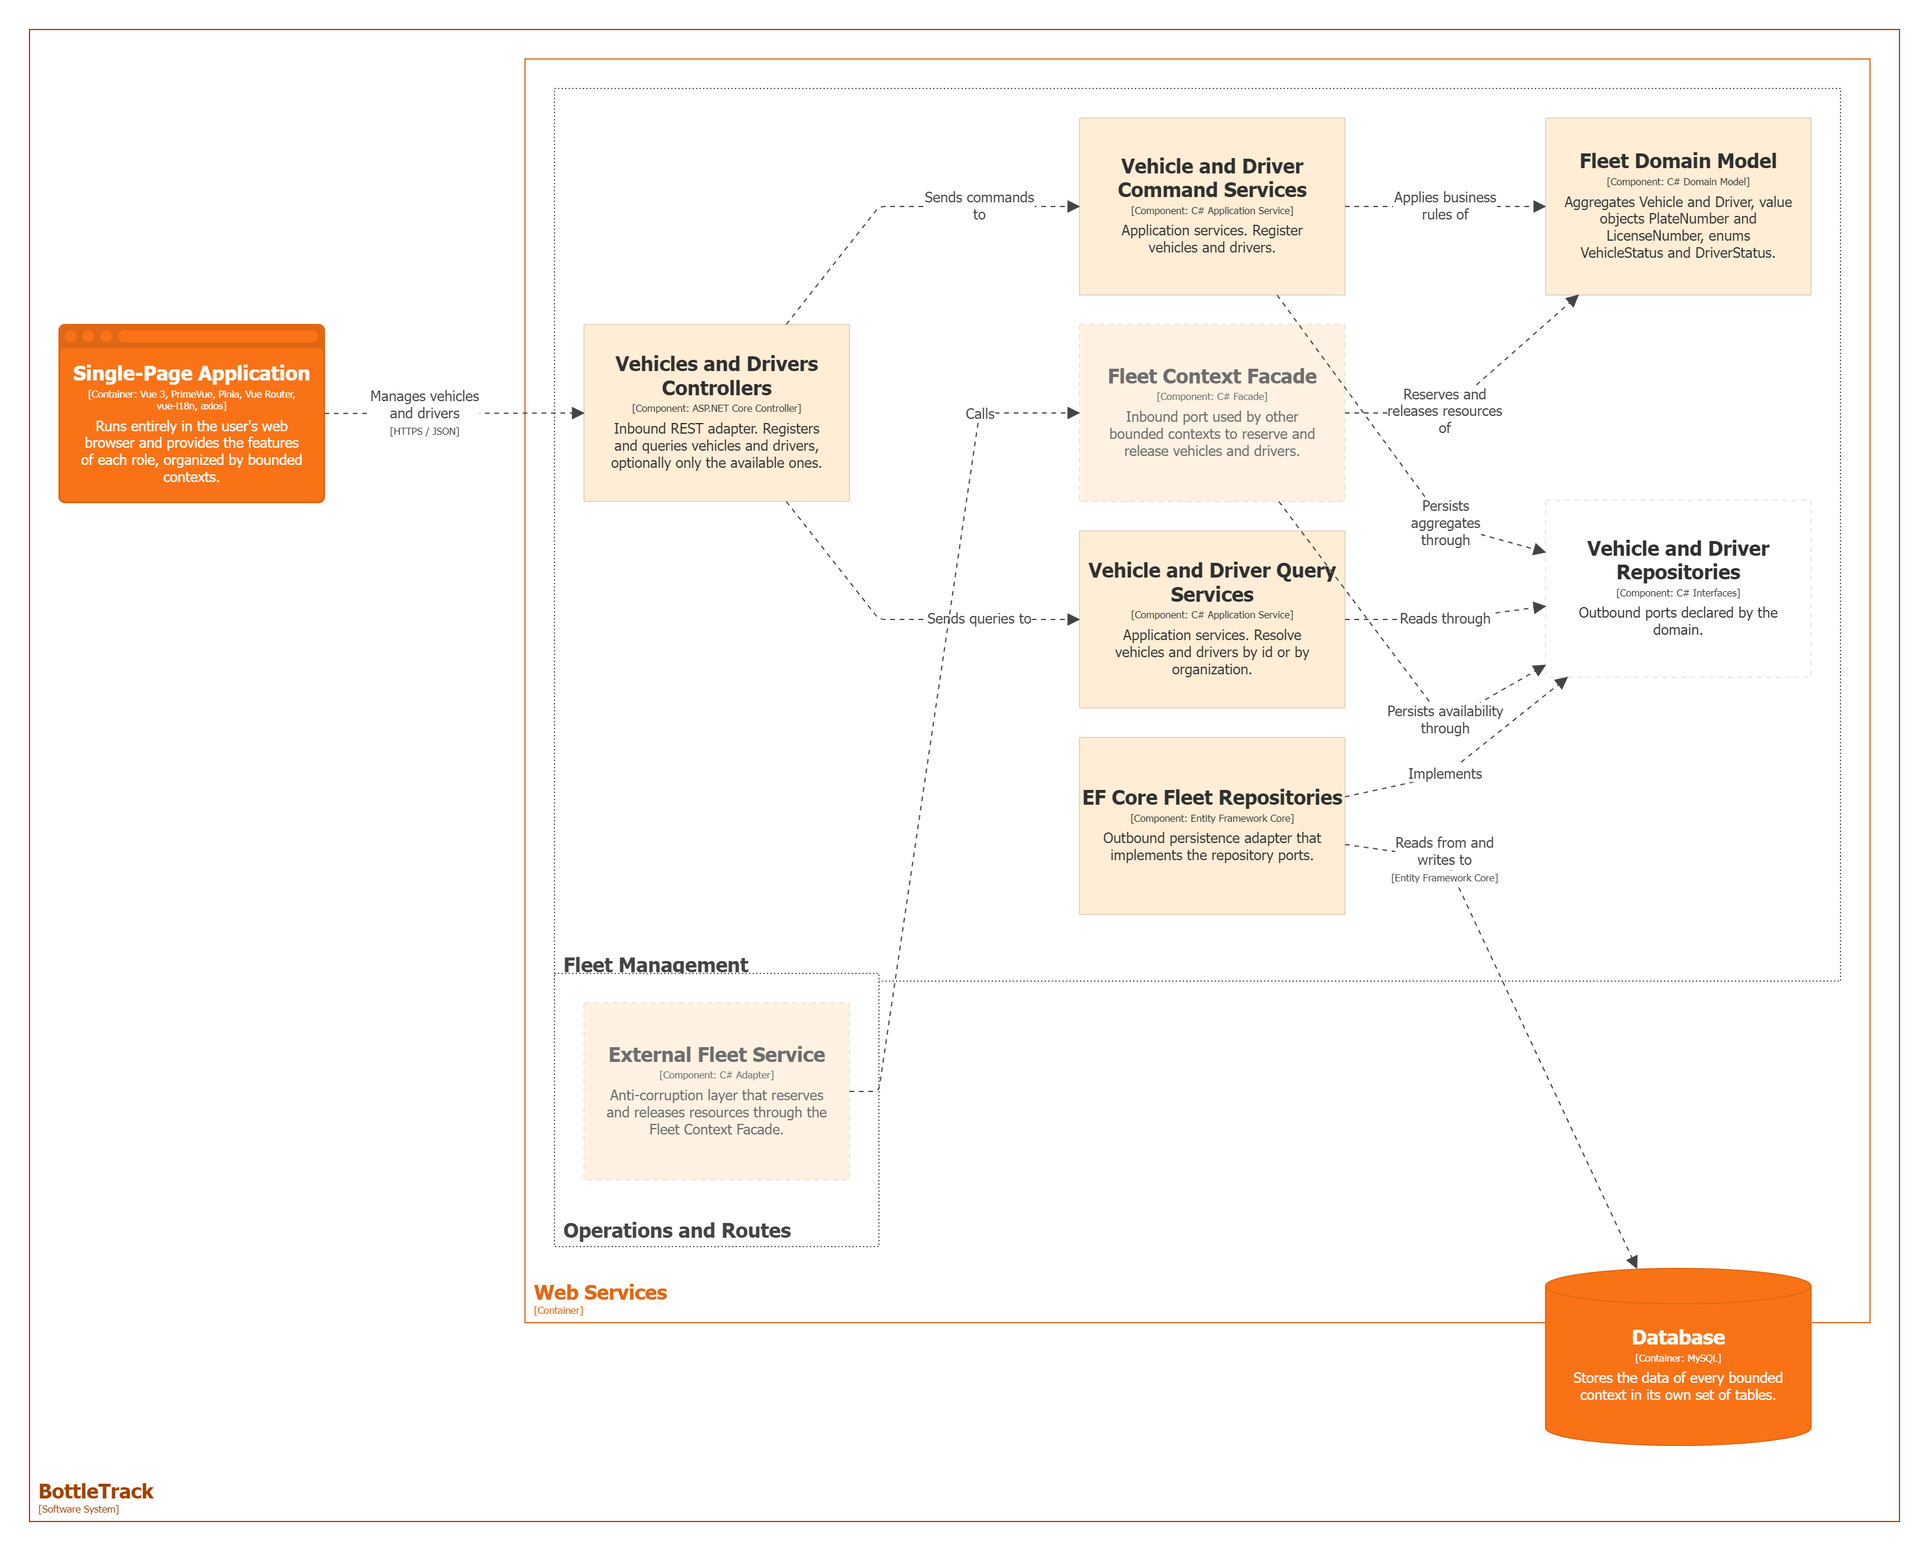
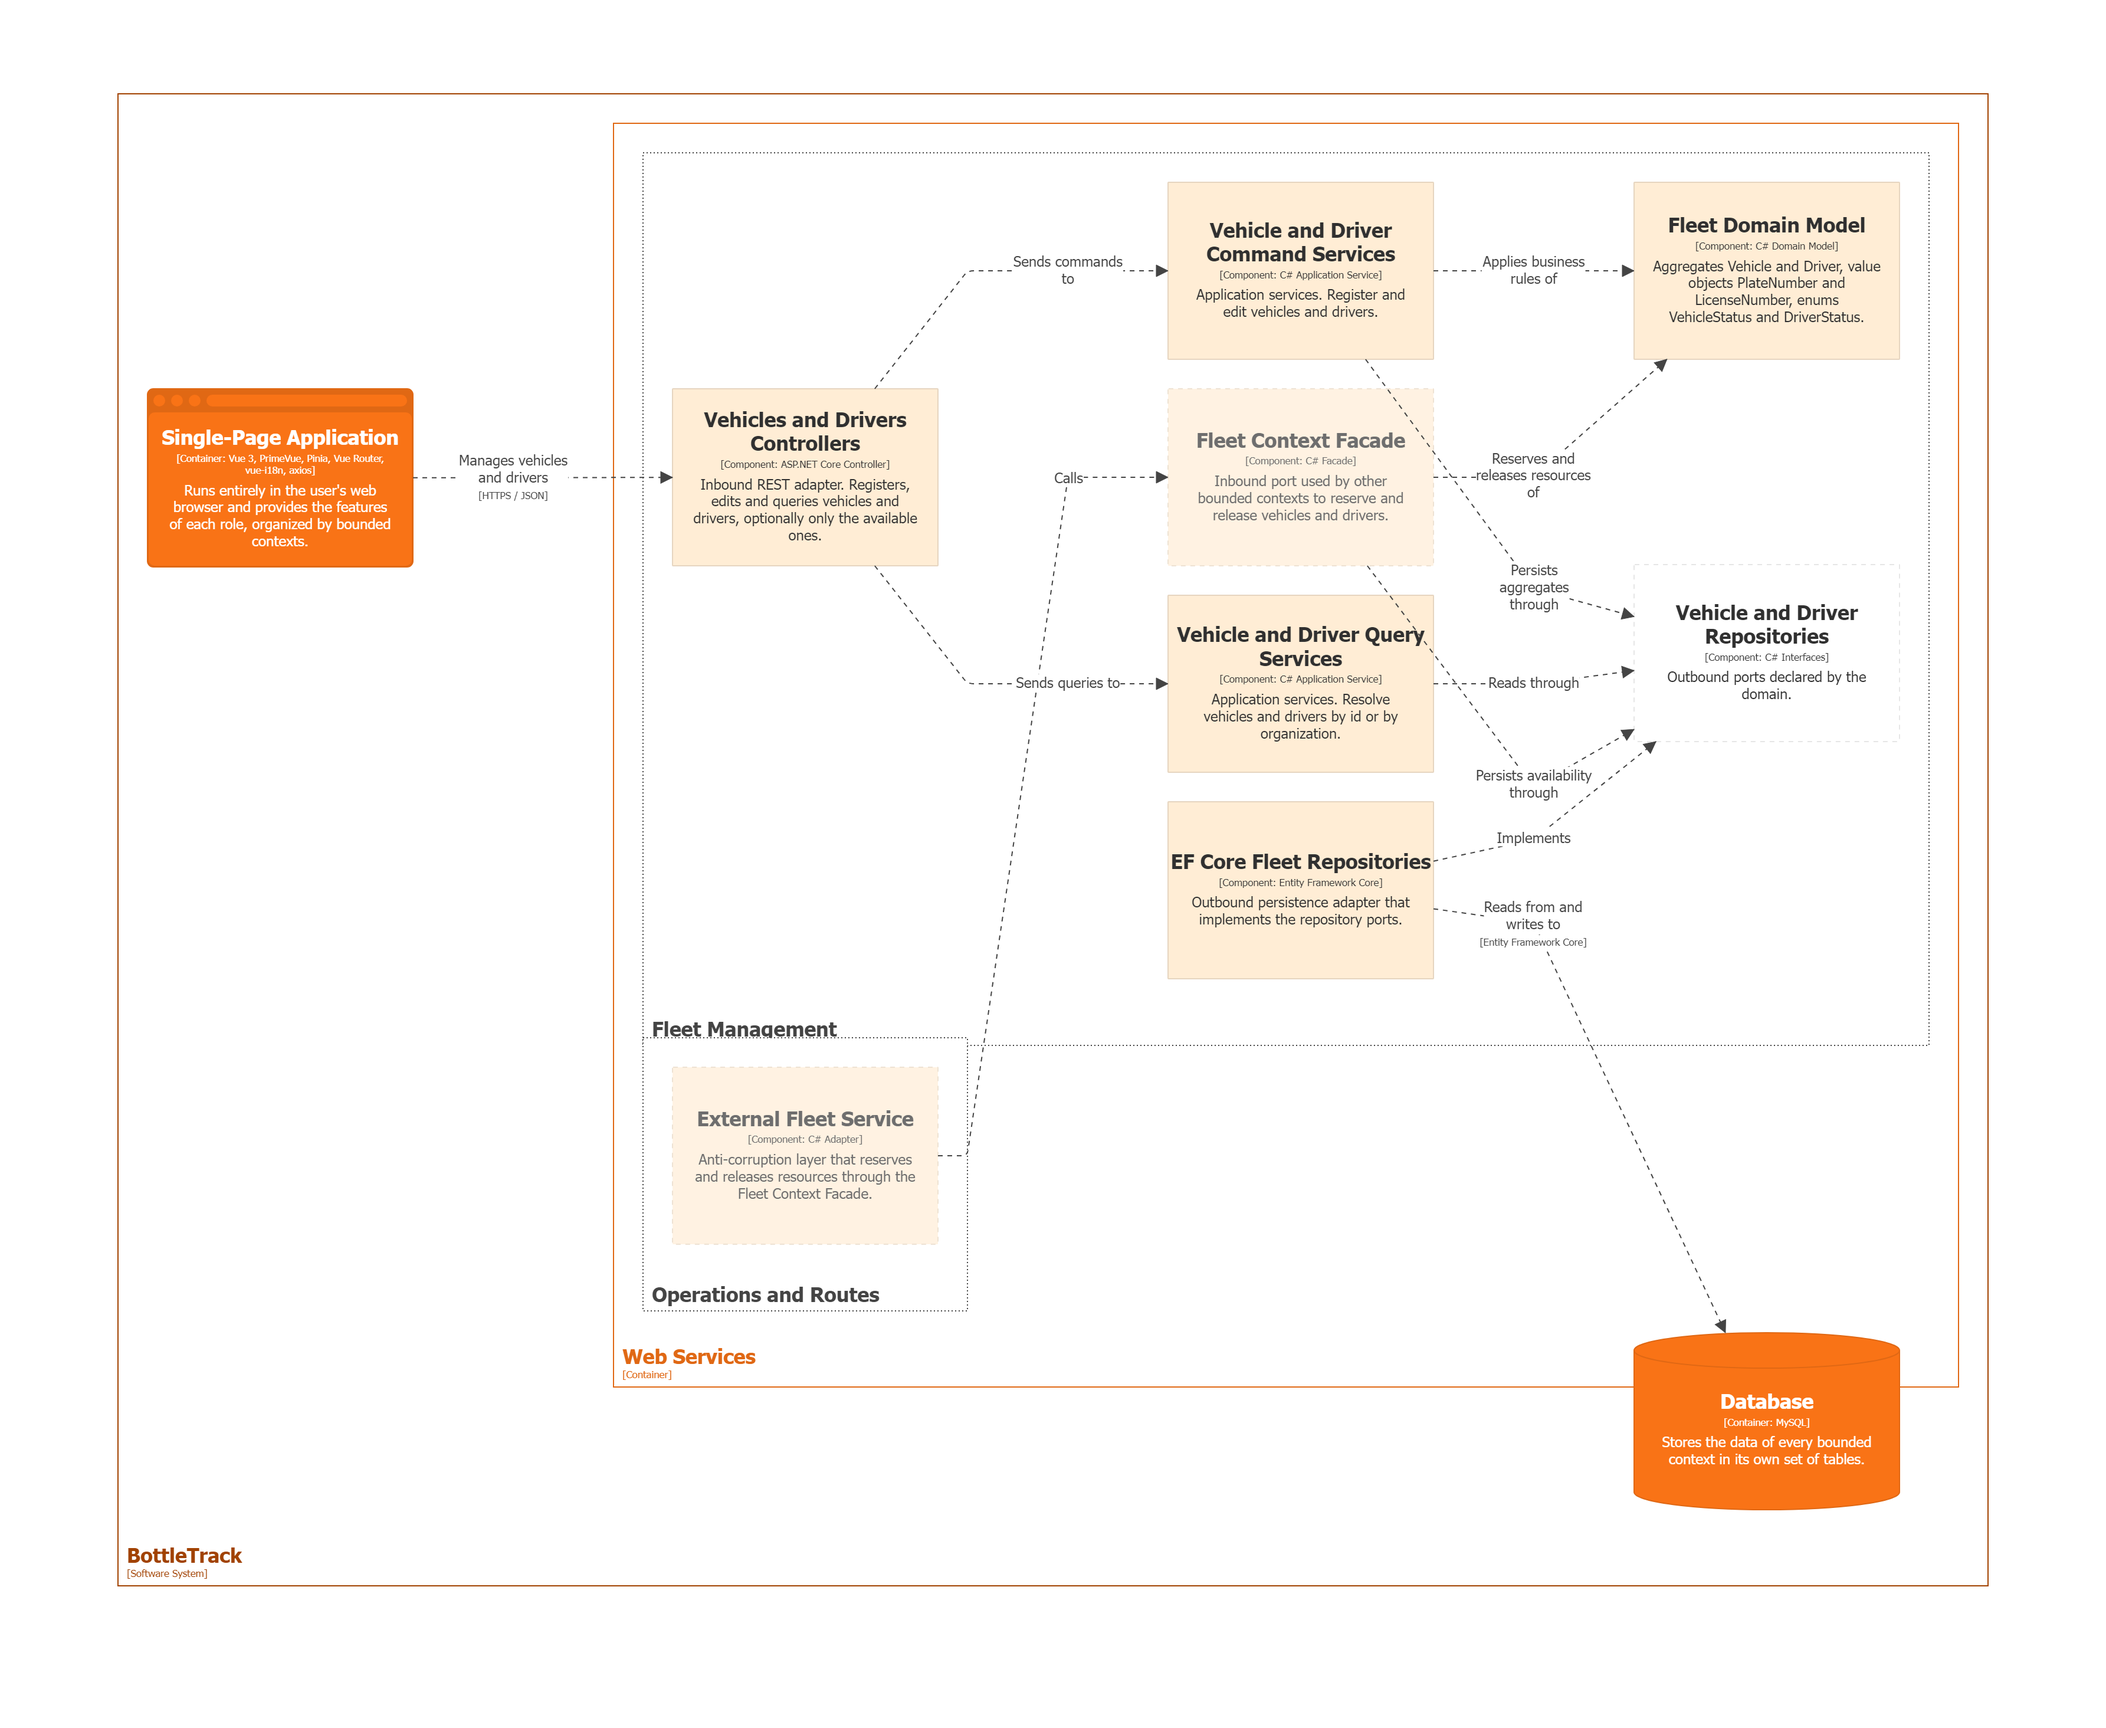
fix(report): align fleet management backend and component diagrams

diff --git a/report/40-chapter-4-product-design.md b/report/40-chapter-4-product-design.md
@@ -752,7 +752,7 @@ Se elaboró un diagrama de componentes por bounded context. Los componentes dibu
 
 <img src="assets/DD-SoftwareArchitecture/componentIAM_D.png" alt="Diagrama de componentes de Identity and Access Management" width="800">
 
-**Fleet Management.** Gestiona los vehículos y los conductores y su disponibilidad. Implementado: registro y consulta de vehículos y de conductores, con filtro por disponibilidad. La facade con la que Operations and Routes reservará y liberará recursos está planificada.
+**Fleet Management.** Gestiona los vehículos y los conductores y su disponibilidad. Implementado: registro, consulta y edición de vehículos y de conductores, con filtro por disponibilidad. La facade con la que Operations and Routes reservará y liberará recursos está planificada.
 
 <img src="assets/DD-SoftwareArchitecture/componentFleetM_D.png" alt="Diagrama de componentes de Fleet Management" width="800">
 
@@ -820,7 +820,7 @@ Administra los vehículos y los conductores que se asignan a las operaciones de 
 
 <img src="assets/Software-Object-Oriented-Design/frontend-class-fleet-management.png" alt="Diagrama de clases de Fleet Management en el frontend" width="800">
 
-*Backend.* `Vehicle` y `Driver` son raíces de agregado que controlan su propia disponibilidad: `Reserve` los marca como asignados, `Release` los libera y, en el vehículo, `SendToMaintenance` lo retira de circulación. `PlateNumber` y `LicenseNumber` son value objects que los identifican, y cada uno tiene un estado (`VehicleStatus` o `DriverStatus`). `IVehicleRepository` e `IDriverRepository` permiten buscar por placa, documento o licencia, para evitar duplicados, y listar los recursos disponibles de una organización.
+*Backend.* `Vehicle` y `Driver` son raíces de agregado que controlan su propia disponibilidad: `Reserve` los marca como asignados, `Release` los libera y, en el vehículo, `SendToMaintenance` lo retira de circulación. `UpdateDetails` corrige sus datos editables sin tocar la placa, el documento ni la licencia. `PlateNumber` y `LicenseNumber` son value objects que los identifican, y cada uno tiene un estado (`VehicleStatus` o `DriverStatus`). `IVehicleRepository` e `IDriverRepository` permiten buscar por placa, documento o licencia, para evitar duplicados, y listar los recursos disponibles de una organización.
 
 <img src="assets/Software-Object-Oriented-Design/backend-class-fleet-management.png" alt="Diagrama de clases de Fleet Management en el backend" width="800">
 
